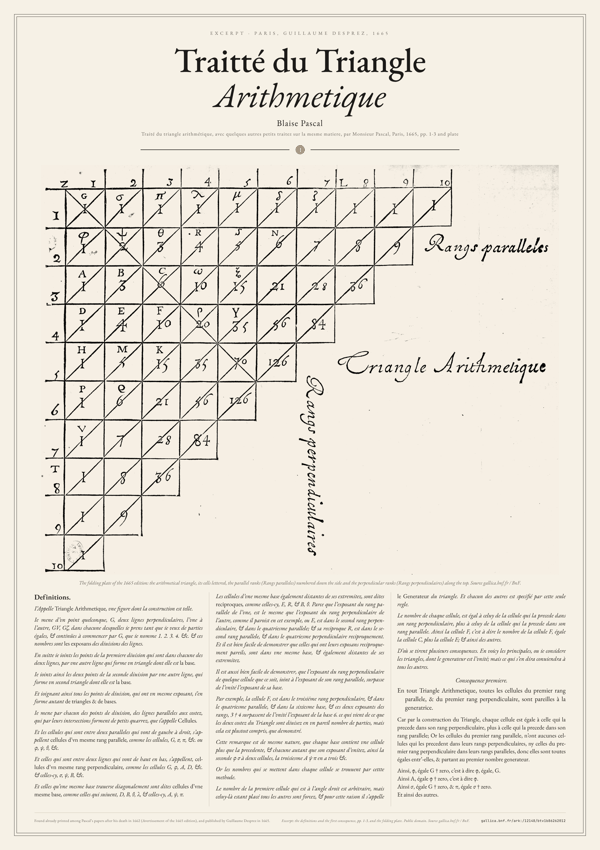
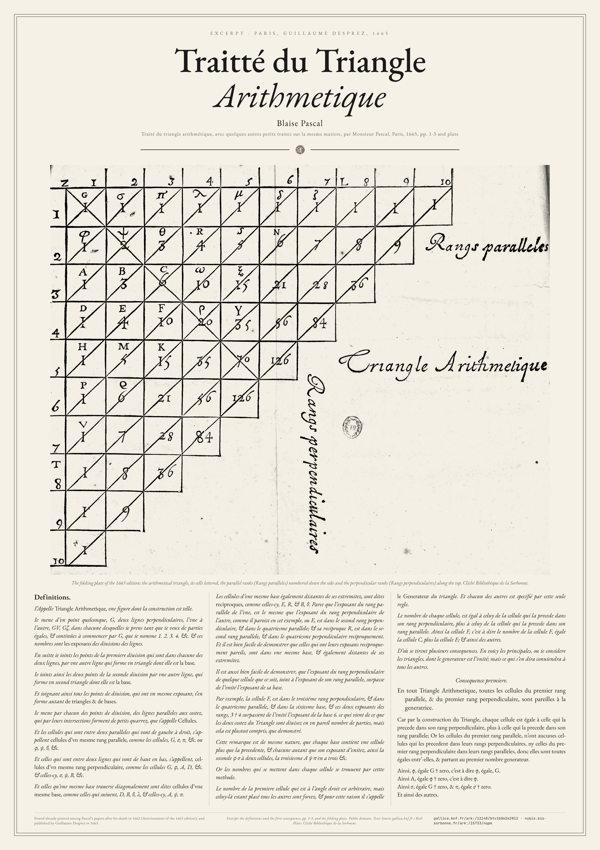
feat(papers): minard-russia and pascal-triangle from openly licensed scans
The Minard map now comes from the copy of the École nationale des ponts
et chaussées (Fol. 10975) and the Pascal plate from the copy of the
Bibliothèque de la Sorbonne (RRA 4= 184). Both scans are under the
Licence Ouverte Etalab, which allows commercial reuse with credit, so
both posters are commercial again. Captions, footers and sources name
the new copies.

diff --git a/papers/data-viz/minard-russia/text.md b/papers/data-viz/minard-russia/text.md
@@ -1,4 +1,4 @@
-::: image minard-russia.jpg caption="The map in the copy of the Bibliothèque nationale de France (Gallica, btv1b52504201x), below it the chart of the temperature on the retreat." on_light=multiply
+::: image minard-russia.jpg caption="The map in the copy of the École nationale des ponts et chaussées (Fol. 10975), below it the chart of the temperature on the retreat." on_light=multiply
 
 ## Legend
 
@@ -28,6 +28,6 @@ Les Cosaques passent au galop le Niémen gelé.
 
 *A note written for this poster.*
 
-Charles Joseph Minard (1781-1870), a retired inspector general of the Ponts et Chaussées, drew this map in Paris and dated it 20 November 1869. It was printed by Regnier and Dourdet on one sheet with a companion map of the losses of Hannibal's army on its march from Spain into Italy, dated the same day. The copy shown here, now in the Bibliothèque nationale de France, carries the handwritten dedication "pour la Bibliothèque impériale".
+Charles Joseph Minard (1781-1870), a retired inspector general of the Ponts et Chaussées, drew this map in Paris and dated it 20 November 1869. It was printed by Regnier and Dourdet on one sheet with a companion map of the losses of Hannibal's army on its march from Spain into Italy, dated the same day. The copy shown here is kept at the École nationale des ponts et chaussées, in a volume of Minard's graphic tables and figurative maps.
 
 The pink band leaves the Niemen, at Kowno, with 422,000 men and reaches Moscow with 100,000. The black band of the retreat leaves Moscow with 100,000 and comes back to the Niemen with 10,000. The chart below follows the retreat in degrees Réaumur below zero, down to 30 degrees on 6 December.

diff --git a/papers/mathematics/pascal-triangle/text.md b/papers/mathematics/pascal-triangle/text.md
@@ -1,4 +1,4 @@
-::: image triangle-arithmetique.png caption="The folding plate of the 1665 edition: the arithmetical triangle, its cells lettered, the parallel ranks (<i>Rangs paralleles</i>) numbered down the side and the perpendicular ranks (<i>Rangs perpendiculaires</i>) along the top. Source gallica.bnf.fr / BnF." on_light=multiply on_dark=invert
+::: image triangle-arithmetique.png caption="The folding plate of the 1665 edition: the arithmetical triangle, its cells lettered, the parallel ranks (<i>Rangs paralleles</i>) numbered down the side and the perpendicular ranks (<i>Rangs perpendiculaires</i>) along the top. Cliché Bibliothèque de la Sorbonne." on_light=multiply on_dark=invert
 
 ## Definitions.
 
